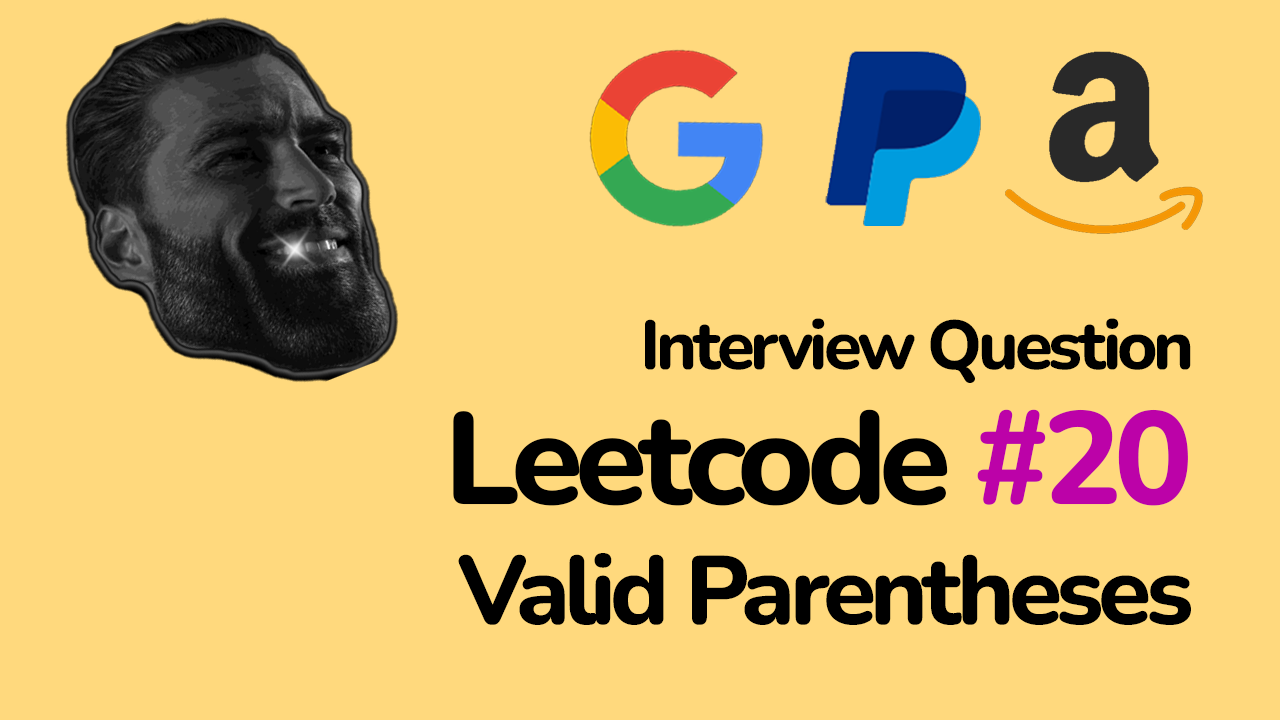
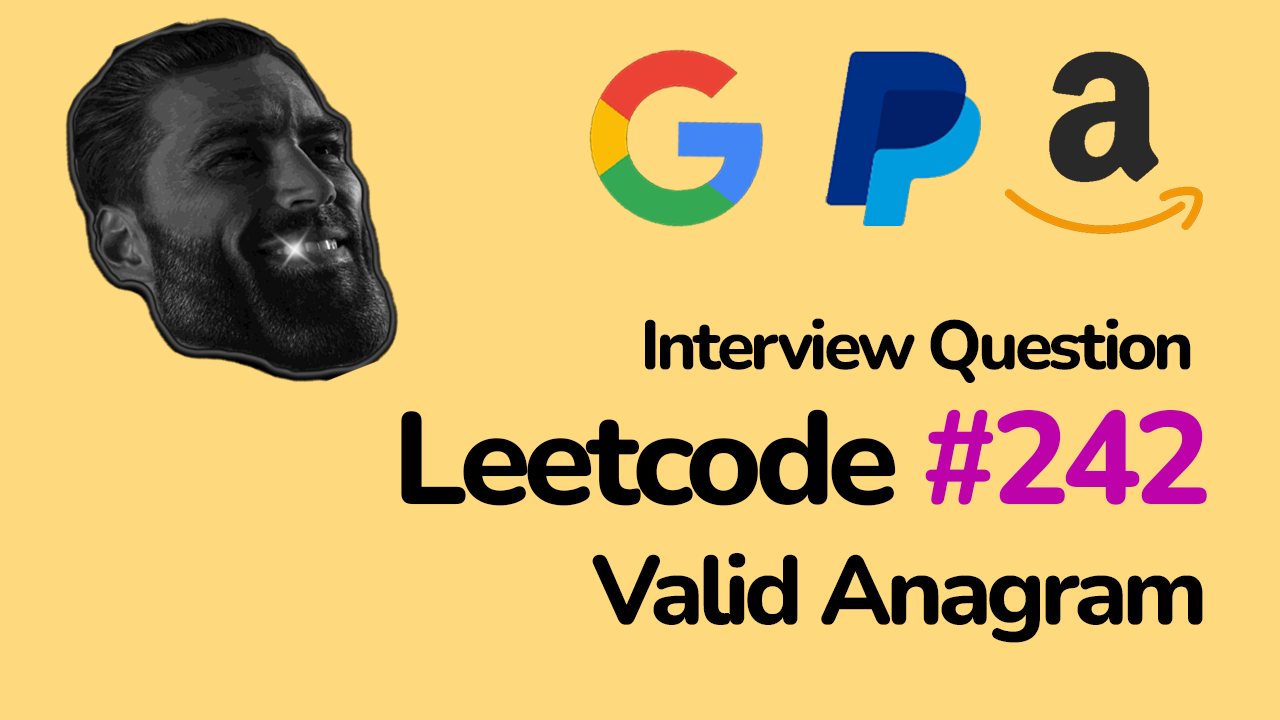
Valid anagram title and image change

Changed region(s): [[0.3125, 0.55, 0.9688, 0.7028], [0.3438, 0.7639, 0.9375, 0.9167]]

diff --git a/index.html b/index.html
@@ -939,10 +939,10 @@ as a Software Engineer Intern at LACCD (May to December 2023), enhancing data-dr
                     <time datetime="2023-08-17">Mar 23, 2024</time>
                   </div>
 
-                  <h3 class="h3 video-item-title">Leetcode #20</h3>
+                  <h3 class="h3 video-item-title">Leetcode #242</h3>
 
                   <p class="video-text">
-                    Valid Parentheses | Google | Amazon | Paypal               </p>
+                    Valid Anagram | Google | Amazon | Paypal               </p>
 
                 </div>
 
